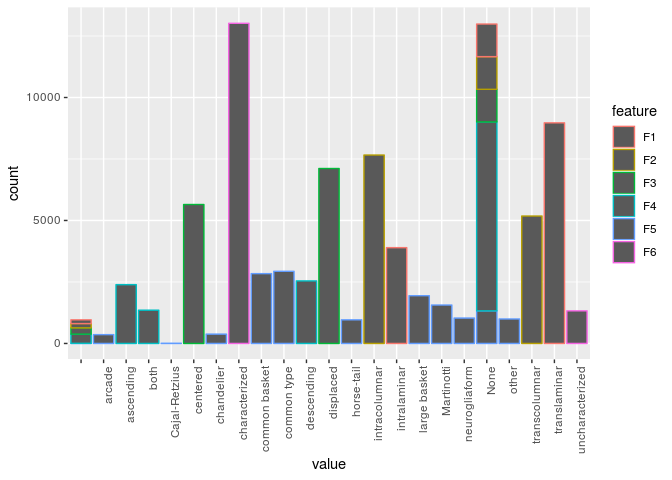
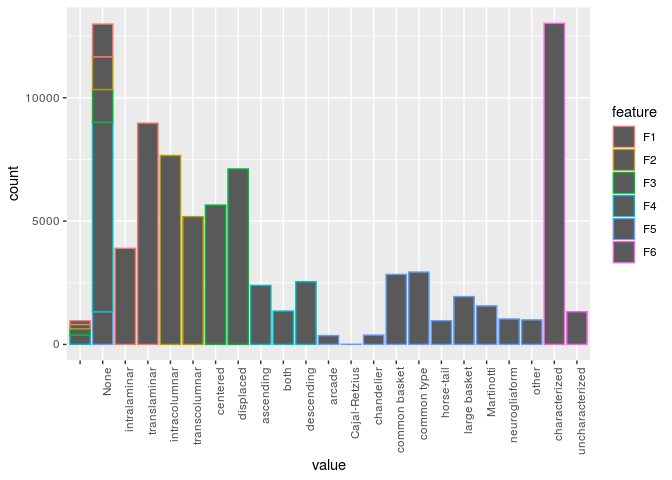
fix README typos

diff --git a/README.md b/README.md
@@ -21,20 +21,12 @@ These can be downloaded from …(TODO)
 ``` r
 folder <- '/home/bmihaljevic/code-gardener/gardener-experiment-data/data/' 
 library(tidyverse)
-#> Registered S3 methods overwritten by 'ggplot2':
-#>   method         from 
-#>   [.quosures     rlang
-#>   c.quosures     rlang
-#>   print.quosures rlang
-#> Registered S3 method overwritten by 'rvest':
-#>   method            from
-#>   read_xml.response xml2
-#> ── Attaching packages ───────────────────────────────────────────────────────────────────────────────────────────────────────────────────────────────────────── tidyverse 1.2.1 ──
-#> ✔ ggplot2 3.1.1       ✔ purrr   0.3.2  
-#> ✔ tibble  2.1.1       ✔ dplyr   0.8.0.1
-#> ✔ tidyr   0.8.3       ✔ stringr 1.4.0  
-#> ✔ readr   1.3.1       ✔ forcats 0.4.0
-#> ── Conflicts ──────────────────────────────────────────────────────────────────────────────────────────────────────────────────────────────────────────── tidyverse_conflicts() ──
+#> ── Attaching packages ───────────────────────────────────────────────────────────────────────────────────────────────────────── tidyverse 1.2.1 ──
+#> ✔ ggplot2 3.2.0     ✔ purrr   0.3.2
+#> ✔ tibble  2.1.3     ✔ dplyr   0.8.1
+#> ✔ tidyr   0.8.3     ✔ stringr 1.4.0
+#> ✔ readr   1.3.1     ✔ forcats 0.4.0
+#> ── Conflicts ──────────────────────────────────────────────────────────────────────────────────────────────────────────── tidyverse_conflicts() ──
 #> ✖ dplyr::filter() masks stats::filter()
 #> ✖ dplyr::lag()    masks stats::lag()
 ```
@@ -49,6 +41,8 @@ functions for the classification labels `get_all_labels`, metadata
 
 ``` r
 library(gardenr)
+#> Warning: replacing previous import 'magrittr::extract' by 'tidyr::extract'
+#> when loading 'gardenr'
 #> 
 #> Attaching package: 'gardenr'
 #> The following object is masked from 'package:readr':
@@ -234,8 +228,8 @@ head(counts)
 #> #   uncharacterized <int>
 ```
 
-We can join the above with metadata, to get a thorough information for
-each cell.
+We can join the above with metadata to get thorough information for each
+cell.
 
 ``` r
 meta_count <- left_join(counts, metadata, by = 'neuron') %>% select(-paper, -original.type, -archive, -neuromorpho.name)
@@ -311,7 +305,7 @@ table(annotations$complete)
 #>   482 13860
 ```
 
--   Get row frequencies of the different categories
+-   Get raw frequencies of the different categories
 
 ``` r
 annot_tidy <- make_annotations_tidy(annotations) 
@@ -321,17 +315,17 @@ annot_tidy %>% group_by(feature, value) %>% tally()
 #> # A tibble: 31 x 3
 #> # Groups:   feature [6]
 #>    feature value             n
-#>    <chr>   <chr>         <int>
+#>    <chr>   <fct>         <int>
 #>  1 F1      ""              151
-#>  2 F1      intralaminar   3895
-#>  3 F1      None           1326
+#>  2 F1      None           1326
+#>  3 F1      intralaminar   3895
 #>  4 F1      translaminar   8970
 #>  5 F2      ""              175
-#>  6 F2      intracolumnar  7660
-#>  7 F2      None           1326
+#>  6 F2      None           1326
+#>  7 F2      intracolumnar  7660
 #>  8 F2      transcolumnar  5181
 #>  9 F3      ""              254
-#> 10 F3      centered       5649
+#> 10 F3      None           1326
 #> # … with 21 more rows
 # library(ggplot2)
 ggplot(annot_tidy, aes(x = value, color = feature)) + geom_bar() + theme(axis.text.x = element_text(angle = 90, hjust = 1))
